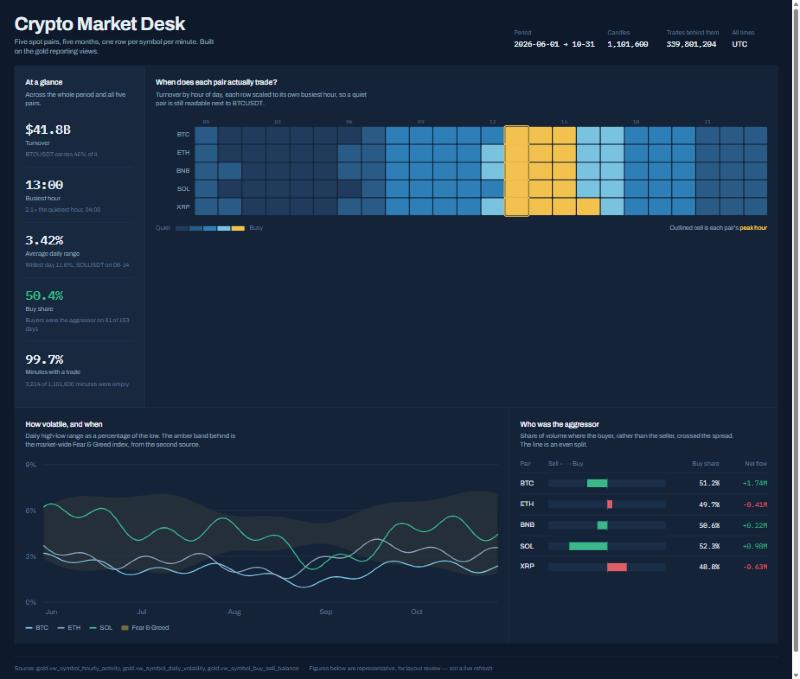
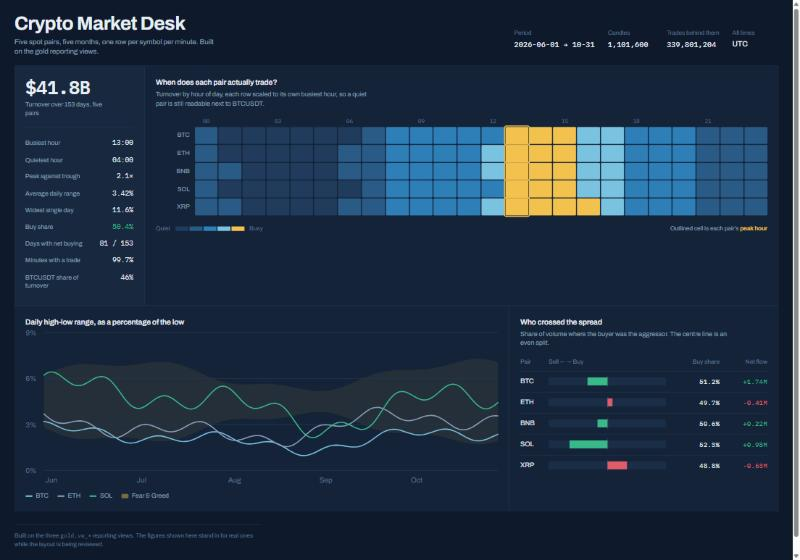
design: take the generated-looking patterns out of the dashboard mockup
Three things in the first version read as machine-made rather than designed,
and all three are patterns rather than mistakes:

- a footer of meta strings joined with middle dots
- an explanatory line under every single heading, four panels in a row
- five identically weighted figure blocks in the left rail, each a big number
  over a small label over a smaller sub-label

The rail is now a tear sheet: one figure leads at 38px, and the remaining
nine are label-left, value-right in a definition list, which is the form a
trading desk fact sheet actually takes and lets more numbers fit in less
space. Headings carry their own meaning instead of needing a gloss -- "Daily
high-low range, as a percentage of the low" says what the old heading plus
its explainer said together. The two explainers that survive are the ones
doing real work: that each heatmap row is scaled to its own peak, and what
"crossed the spread" means to someone who does not trade.

The footer is one plain sentence.

diff --git a/powerbi/design/dashboard-mockup.html b/powerbi/design/dashboard-mockup.html
@@ -81,14 +81,18 @@
   .q{color:var(--muted);font-size:13px;margin:4px 0 20px;max-width:58ch}
 
   /* ---- left rail figures: no cards, hairlines only -------------------- */
-  .rail{display:flex;flex-direction:column}
-  .figures{display:flex;flex-direction:column;flex:1;justify-content:space-between}
-  .figure{padding:16px 0;border-bottom:1px solid var(--line)}
-  .figure:first-of-type{padding-top:4px}
-  .figure:last-of-type{border-bottom:0}
-  .figure .v{font-size:26px;font-weight:600;letter-spacing:-0.02em;display:block}
-  .figure .k{color:var(--muted);font-size:12.5px;margin-top:2px;display:block}
-  .figure .s{color:var(--muted-2);font-size:12px;margin-top:5px;display:block}
+  .sr-only{
+    position:absolute;width:1px;height:1px;padding:0;margin:-1px;
+    overflow:hidden;clip:rect(0 0 0 0);white-space:nowrap;border:0;
+  }
+  /* One figure leads; the rest are a tear sheet, label left and value right.
+     Five identically weighted blocks would read as a template. */
+  .lead{padding-bottom:18px;border-bottom:1px solid var(--line)}
+  .lead .v{font-size:38px;font-weight:600;letter-spacing:-0.03em;display:block;line-height:1}
+  .lead .k{color:var(--muted);font-size:12.5px;margin-top:8px;display:block;max-width:22ch}
+  .sheet{display:grid;grid-template-columns:1fr auto;gap:0 14px;margin:14px 0 0}
+  .sheet dt{color:var(--muted);font-size:12.5px;padding:7px 0;align-self:baseline}
+  .sheet dd{margin:0;font-size:14px;text-align:right;padding:7px 0;align-self:baseline}
   .split{color:var(--buy)}
 
   /* ---- heatmap -------------------------------------------------------- */
@@ -145,8 +149,9 @@
 
   .foot{
     margin-top:26px;padding-top:14px;border-top:1px solid var(--line);
-    color:var(--muted-2);font-size:12px;display:flex;gap:8px;flex-wrap:wrap;
+    color:var(--muted-2);font-size:12px;max-width:72ch;
   }
+  .foot code{font-family:"IBM Plex Mono",monospace;font-size:11.5px}
 
   @media (prefers-reduced-motion:no-preference){
     .series{stroke-dasharray:2600;stroke-dashoffset:2600;animation:draw 1.1s .15s ease-out forwards}
@@ -175,36 +180,24 @@
 
     <!-- left rail: headline figures, hairline separated, no card boxes -->
     <section class="cell rail" aria-labelledby="rail-h">
-      <h2 id="rail-h">At a glance</h2>
-      <p class="q">Across the whole period and all five pairs.</p>
+      <h2 id="rail-h" class="sr-only">Summary figures</h2>
 
-      <div class="figures">
-      <div class="figure">
+      <div class="lead">
         <span class="v num">$41.8B</span>
-        <span class="k">Turnover</span>
-        <span class="s">BTCUSDT carries 46% of it</span>
+        <span class="k">Turnover over 153 days, five pairs</span>
       </div>
-      <div class="figure">
-        <span class="v num">13:00</span>
-        <span class="k">Busiest hour</span>
-        <span class="s">2.1× the quietest hour, 04:00</span>
-      </div>
-      <div class="figure">
-        <span class="v num">3.42%</span>
-        <span class="k">Average daily range</span>
-        <span class="s">Widest day 11.6%, SOLUSDT on 08-14</span>
-      </div>
-      <div class="figure">
-        <span class="v num split">50.4%</span>
-        <span class="k">Buy share</span>
-        <span class="s">Buyers were the aggressor on 81 of 153 days</span>
-      </div>
-      <div class="figure">
-        <span class="v num">99.7%</span>
-        <span class="k">Minutes with a trade</span>
-        <span class="s">3,214 of 1,101,600 minutes were empty</span>
-      </div>
-      </div>
+
+      <dl class="sheet">
+        <dt>Busiest hour</dt><dd class="num">13:00</dd>
+        <dt>Quietest hour</dt><dd class="num">04:00</dd>
+        <dt>Peak against trough</dt><dd class="num">2.1&times;</dd>
+        <dt>Average daily range</dt><dd class="num">3.42%</dd>
+        <dt>Widest single day</dt><dd class="num">11.6%</dd>
+        <dt>Buy share</dt><dd class="num split">50.4%</dd>
+        <dt>Days with net buying</dt><dd class="num">81 / 153</dd>
+        <dt>Minutes with a trade</dt><dd class="num">99.7%</dd>
+        <dt>BTCUSDT share of turnover</dt><dd class="num">46%</dd>
+      </dl>
     </section>
 
     <!-- hero: hour of day × symbol -->
@@ -227,8 +220,7 @@
 
     <!-- volatility over time -->
     <section class="cell vol" aria-labelledby="vol-h">
-      <h2 id="vol-h">How volatile, and when</h2>
-      <p class="q">Daily high-low range as a percentage of the low. The amber band behind is the market-wide Fear &amp; Greed index, from the second source.</p>
+      <h2 id="vol-h">Daily high-low range, as a percentage of the low</h2>
       <div class="chartwrap">
         <svg id="vol" viewBox="0 0 720 240" preserveAspectRatio="none" aria-hidden="true"></svg>
       </div>
@@ -237,8 +229,8 @@
 
     <!-- buy vs sell -->
     <section class="cell flow" aria-labelledby="flow-h">
-      <h2 id="flow-h">Who was the aggressor</h2>
-      <p class="q">Share of volume where the buyer, rather than the seller, crossed the spread. The line is an even split.</p>
+      <h2 id="flow-h">Who crossed the spread</h2>
+      <p class="q">Share of volume where the buyer was the aggressor. The centre line is an even split.</p>
       <table>
         <thead>
           <tr><th>Pair</th><th>Sell ← → Buy</th><th class="r">Buy share</th><th class="r">Net flow</th></tr>
@@ -249,11 +241,8 @@
 
   </div>
 
-  <p class="foot">
-    <span>Source: gold.vw_symbol_hourly_activity, gold.vw_symbol_daily_volatility, gold.vw_symbol_buy_sell_balance</span>
-    <span>·</span>
-    <span>Figures below are representative, for layout review — not a live refresh</span>
-  </p>
+  <p class="foot">Built on the three <code>gold.vw_*</code> reporting views. The figures
+  shown here stand in for real ones while the layout is being reviewed.</p>
 </div>
 
 <script>
